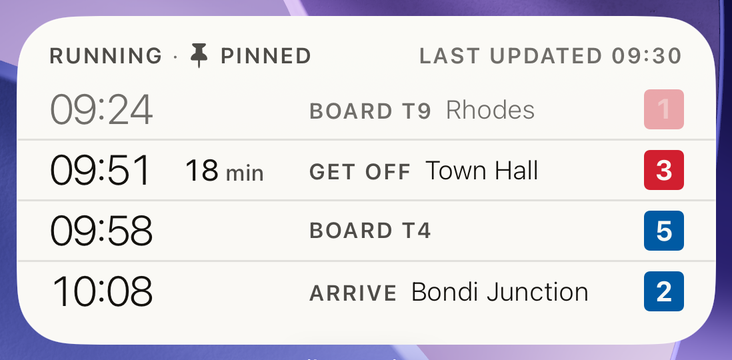
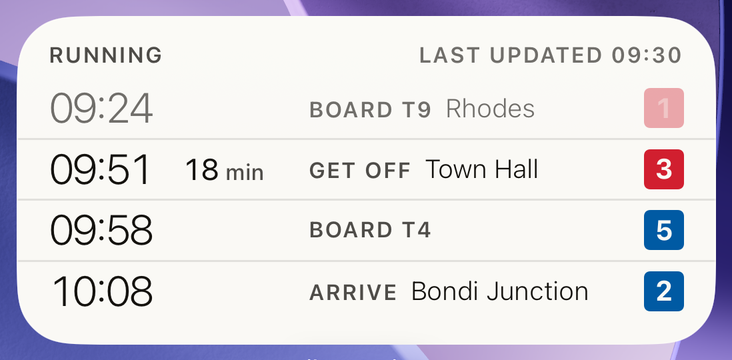
Re-shoot the iOS riding widget frames without PINNED
The small and medium riding frames now read RUNNING with no pin, as
ui.md requires. Shot on the real WidgetKit renderer (iPhone 17 Pro,
iOS 26.4, locally signed Debug build) at the original rects, so the
scenario times and the wallpaper match; the rows sit a fraction of a
point higher now that the status line has no pin glyph. The lock
riding frame never carried PINNED, and its re-shoot differs only in the
ticking timer, so it stays.

HomeWidgetSmokeTests closes iOS 26.4's widget gallery page before
dragging the sheet away, dumps SpringBoard too when Done is missing,
and shows a later home page with HOME_WIDGET_PAGE.

diff --git a/ios/ILoveTrainsUITests/HomeWidgetSmokeTests.swift b/ios/ILoveTrainsUITests/HomeWidgetSmokeTests.swift
@@ -103,6 +103,9 @@ final class HomeWidgetSmokeTests: XCTestCase {
             Thread.sleep(forTimeInterval: 2)
         }
         // The gallery sheet stays open after a tap adds the widget; dragging it away uncovers the editor's Done.
+        // iOS 26.4 leaves the sheet on the app's page, whose close button steps back to the list that has the grabber.
+        let close = editorElement(["Close"], contains: false)
+        if close.exists { close.tap(); Thread.sleep(forTimeInterval: 2) }
         let grabber = posterBoard.buttons["Sheet Grabber"].firstMatch
         if grabber.exists {
             grabber.coordinate(withNormalizedOffset: CGVector(dx: 0.5, dy: 0.5))
@@ -110,7 +113,7 @@ final class HomeWidgetSmokeTests: XCTestCase {
             Thread.sleep(forTimeInterval: 2)
         }
         let done = posterBoard.buttons["editing-done"].firstMatch
-        XCTAssertTrue(done.waitForExistence(timeout: 8), dump("done", in: posterBoard))
+        XCTAssertTrue(done.waitForExistence(timeout: 8), dump("done", in: posterBoard) + "\n" + dump("done"))
         done.tap()
         Thread.sleep(forTimeInterval: 3)
         print(dump("placed", in: posterBoard))
@@ -159,13 +162,17 @@ final class HomeWidgetSmokeTests: XCTestCase {
         }
     }
 
-    /// Unlocks to the home screen for `simctl io screenshot`.
+    /// Unlocks to the home screen, on page HOME_WIDGET_PAGE (default 1), for `simctl io screenshot`.
     @MainActor
     func testShowsHomeScreen() {
         XCUIDevice.shared.press(.home)
         Thread.sleep(forTimeInterval: 1)
         XCUIDevice.shared.press(.home)
         Thread.sleep(forTimeInterval: 2)
+        for _ in 1..<max(1, Int(ProcessInfo.processInfo.environment["HOME_WIDGET_PAGE"] ?? "1") ?? 1) {
+            springboard.swipeLeft()
+            Thread.sleep(forTimeInterval: 1)
+        }
     }
 
     private let posterBoard = XCUIApplication(bundleIdentifier: "com.apple.PosterBoard")
